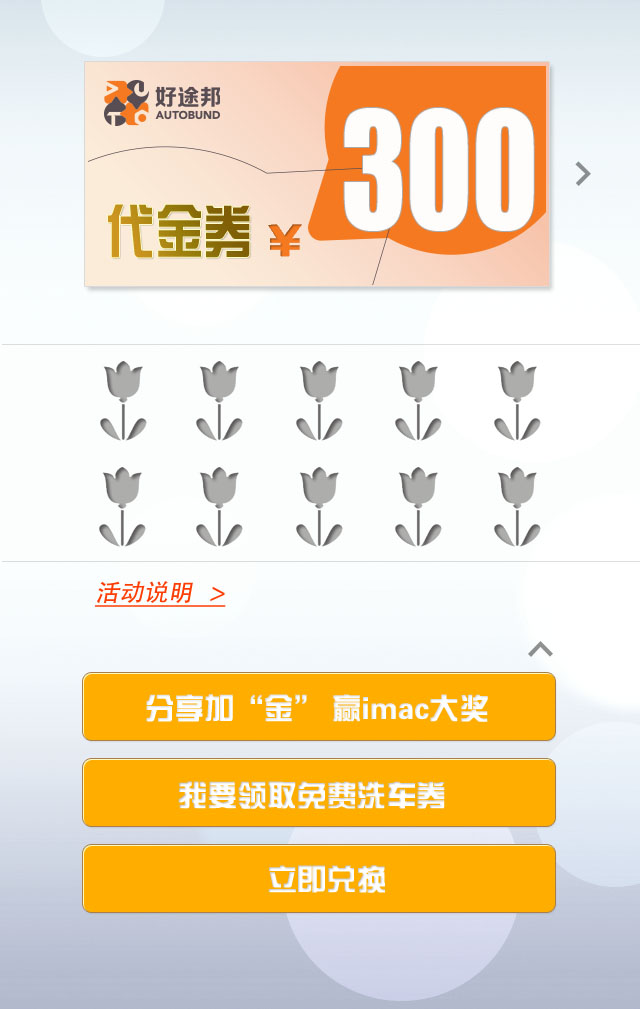
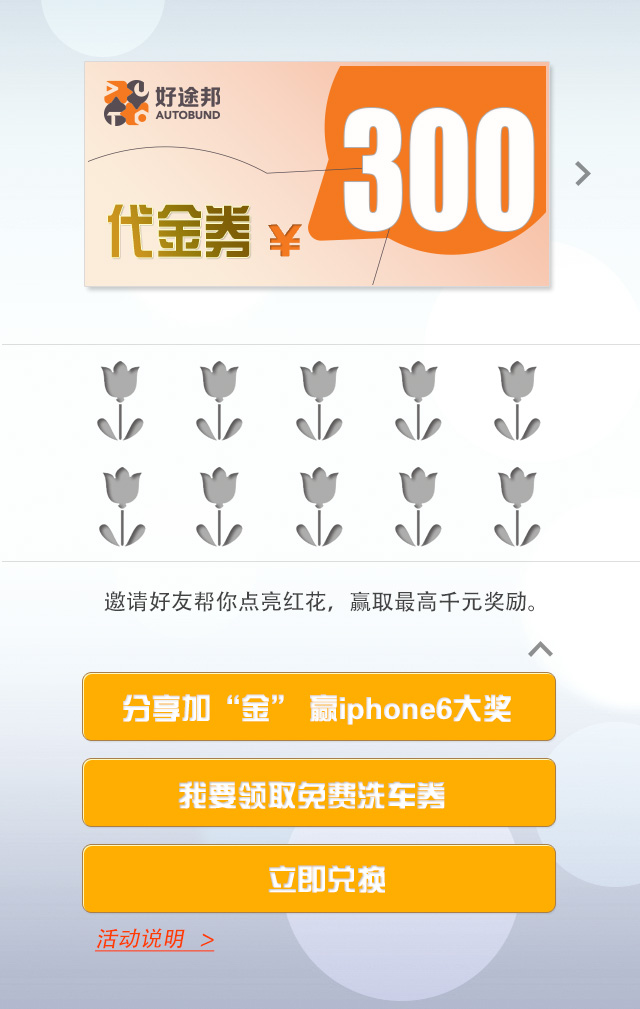
update page1 bg, page4 bg

diff --git a/public/app.js b/public/app.js
@@ -428,7 +428,7 @@
 			instructionLink.scaleX = this.couponPage.scaleX;
 			instructionLink.scaleY = this.couponPage.scaleY;
 			instructionLink.x = this.width * 0.13;
-			instructionLink.y = this.height * 0.56;
+			instructionLink.y = this.height * 0.915;
 			instructionLink.on(game.EVENTS.TAP, function(e) {
 				game.displayInstruction();
 			});
